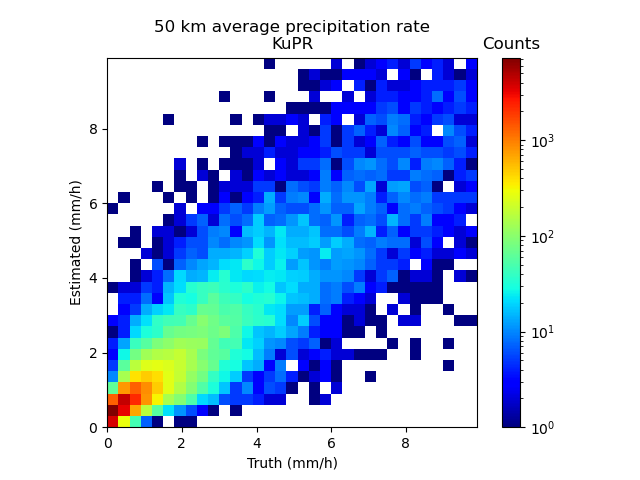
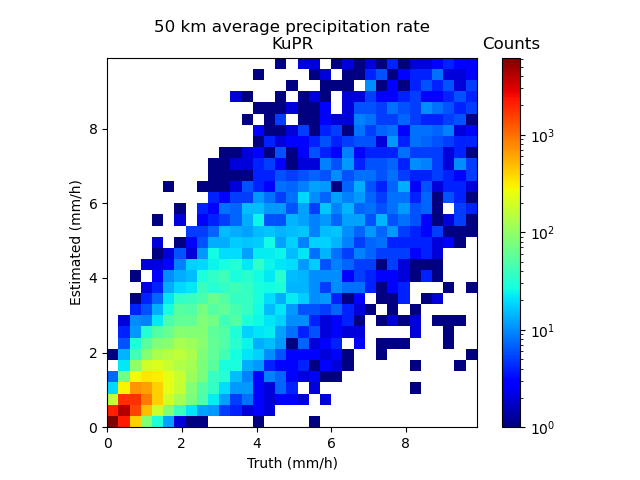
performance evaluation

diff --git a/read2ADPR_CNN_PREKa1D.py b/read2ADPR_CNN_PREKa1D.py
@@ -47,11 +47,17 @@ zKuL=fh["zKaData"][:]
 stormTop=fh["stormTop"][:]
 pTypeL=fh["pType"][:]
 sfcPrecip1L=fh["sfcPrecip"][:]
+sfcPrecip2D=fh["sfcPrecip2D"][:]
+sfcPrecip1L=sfcPrecip2D[:,:,4].mean(axis=-1)
 sfcPrecip1L=sfcPrecip1L[:,np.newaxis]
+
+
 print("preparing tf model...")
 scalerZKu = StandardScaler()
 scalerPrec=StandardScaler()
-piaF=fh["piaF"][:,:,:,0]
+piaF=fh["piaF"][:,:,:,1]
+piaF[piaF>30]=30
+#stop
 
 #539424
 zKu9x9=np.swapaxes(zKuL,1,2)
@@ -94,7 +100,7 @@ for i in range(nm):
 X[:nt,:,:,npc]=pTypeL[:,:,:]/3.0
 X[:nt,:,:,npc+1]=(stormTop-5.2e3)/4.2e3
 X[:nt,:,:,npc+2]=(zmax-19.8)/8.23
-X[:nt,:,:,npc+3]=(piaF[:nt,:,:]-0.4)/2.
+X[:nt,:,:,npc+3]=(piaF[:nt,:,:]-2)/5.
 for iadd,ipos in enumerate(a[0]):
     it=0
     for i in range(nm):
@@ -111,8 +117,8 @@ ind_train, ind_test,\
     y_train, y_test = train_test_split(range(pRate_sc.shape[0]), pRate_sc,\
                                        test_size=0.5, random_state=42)
 
-X_train=X[ind_train,:,:,:].copy()
-X_test=X[ind_test,:,:,:].copy()
+X_train=X[ind_train,:,4,:].copy()
+X_test=X[ind_test,:,4,:].copy()
 
 import tensorflow as tf
 from tensorflow.keras.layers import *
@@ -131,10 +137,22 @@ model.add(tf.keras.layers.Dropout(0.1))
 model.add(tf.keras.layers.Dense(32, activation='relu'))
 model.add(tf.keras.layers.Dropout(0.1))
 model.add(tf.keras.layers.Dense(1))
+
+model1D=tf.keras.Sequential()
+model1D.add(tf.keras.layers.Conv1D(filters=16, kernel_size=3, \
+                                 kernel_regularizer=tf.keras.regularizers.L1(0.0001),input_shape=[9, npc+4]))
+model1D.add(tf.keras.layers.MaxPool1D())
+model1D.add(tf.keras.layers.Conv1D(filters=32,kernel_size=3,kernel_regularizer=tf.keras.regularizers.L1(0.0001),))
+model1D.add(tf.keras.layers.Flatten())
+model1D.add(tf.keras.layers.Dropout(0.1))
+model1D.add(tf.keras.layers.Dense(32, activation='relu'))
+model1D.add(tf.keras.layers.Dropout(0.1))
+model1D.add(tf.keras.layers.Dense(1))
 #radarProfilingCNN_3_less_reg.h5 (0.34216705905825723 -0.1722004783228311) (0.4738876406575849 0.30527402416256033)
 #radarProfilingCNN_3_less_reg.h5 tf.keras.regularizers.L1(0.0001
 itrain=1
 itrain=1
+model=model1D
 if itrain==1:
     model.compile(
         optimizer=tf.keras.optimizers.Adam(),  \
@@ -189,7 +207,7 @@ plt.ylabel('Estimated (mm/h)')
 plt.title('50 km average precipitation rate\nKaPR')
 cbar=plt.colorbar(c[-1])
 cbar.ax.set_title('Counts')
-plt.savefig('50kmPrecipDistrib.png')
+plt.savefig('50kmPrecipDistribKa1D.png')
 
 
 plt.figure()
@@ -219,9 +237,11 @@ ax.legend()
 ax.bar_label(rects1, padding=3)
 ax.bar_label(rects2, padding=3)
 plt.title('KaPR performance')
-plt.savefig('KaPR.png')
+plt.savefig('KaPR1D.png')
 
 fig.tight_layout()
 
 
+import tf.keras.utils
 
+#tf.keras.utils.plot_model(model, to_file="CNN_model.png", show_shapes=True)

diff --git a/read2ADPR_CNN_PREKa.py b/read2ADPR_CNN_PREKa.py
@@ -51,7 +51,9 @@ sfcPrecip1L=sfcPrecip1L[:,np.newaxis]
 print("preparing tf model...")
 scalerZKu = StandardScaler()
 scalerPrec=StandardScaler()
-piaF=fh["piaF"][:,:,:,0]
+piaF=fh["piaF"][:,:,:,1]
+
+#stop
 
 #539424
 zKu9x9=np.swapaxes(zKuL,1,2)
@@ -94,7 +96,7 @@ for i in range(nm):
 X[:nt,:,:,npc]=pTypeL[:,:,:]/3.0
 X[:nt,:,:,npc+1]=(stormTop-5.2e3)/4.2e3
 X[:nt,:,:,npc+2]=(zmax-19.8)/8.23
-X[:nt,:,:,npc+3]=(piaF[:nt,:,:]-0.4)/2.
+X[:nt,:,:,npc+3]=(piaF[:nt,:,:]-2)/5.
 for iadd,ipos in enumerate(a[0]):
     it=0
     for i in range(nm):
@@ -224,4 +226,6 @@ plt.savefig('KaPR.png')
 fig.tight_layout()
 
 
+import tf.keras.utils
 
+tf.keras.utils.plot_model(model, to_file="CNN_model.png", show_shapes=True)

diff --git a/defConvNN.py b/defConvNN.py
@@ -1,0 +1,9 @@
+import tf.keras
+import tf
+model = tf.keras.Sequential([
+    tf.keras.layers.Conv2D(filters=32, kernel_size=3, input_shape=[9, 9, 10]),
+    tf.keras.layers.MaxPool2D(),
+    tf.keras.layers.Conv2D(filters=64,kernel_size=3),
+    tf.keras.layers.MaxPool2D(),
+    tf.keras.layers.Flatten(),
+])
